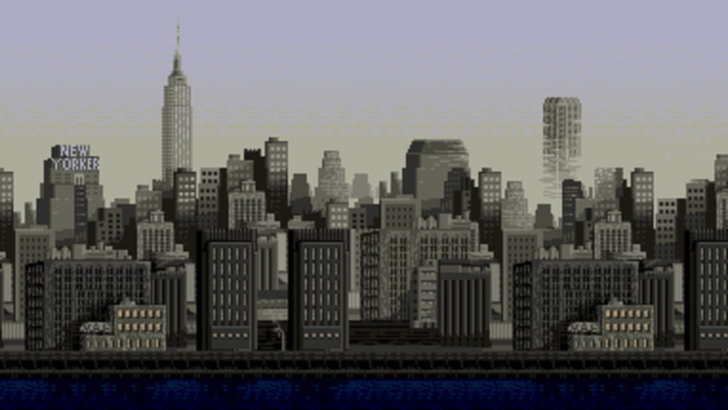
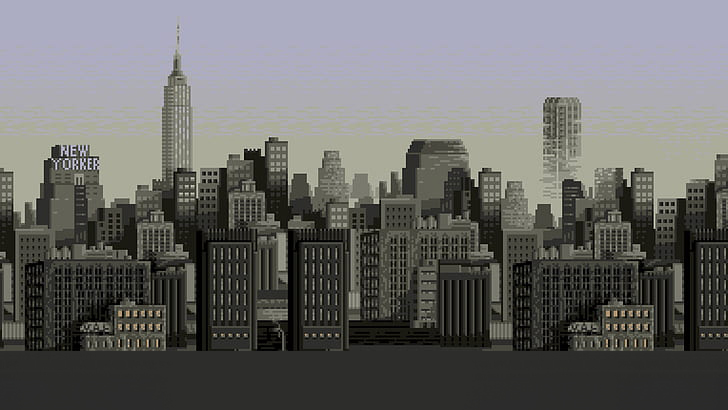
images fixed

diff --git a/js/index.js b/js/index.js
@@ -108,7 +108,7 @@ function step() {
 
 function draw() {
   //Draw canvas background
-  canvasBackground.src = "../assets/bg1.jpg";
+  canvasBackground.src = "../assets/bg2.jpg";
   ctx.drawImage(canvasBackground, 0, 0, 1280, 720);
 
   //Draw signs
